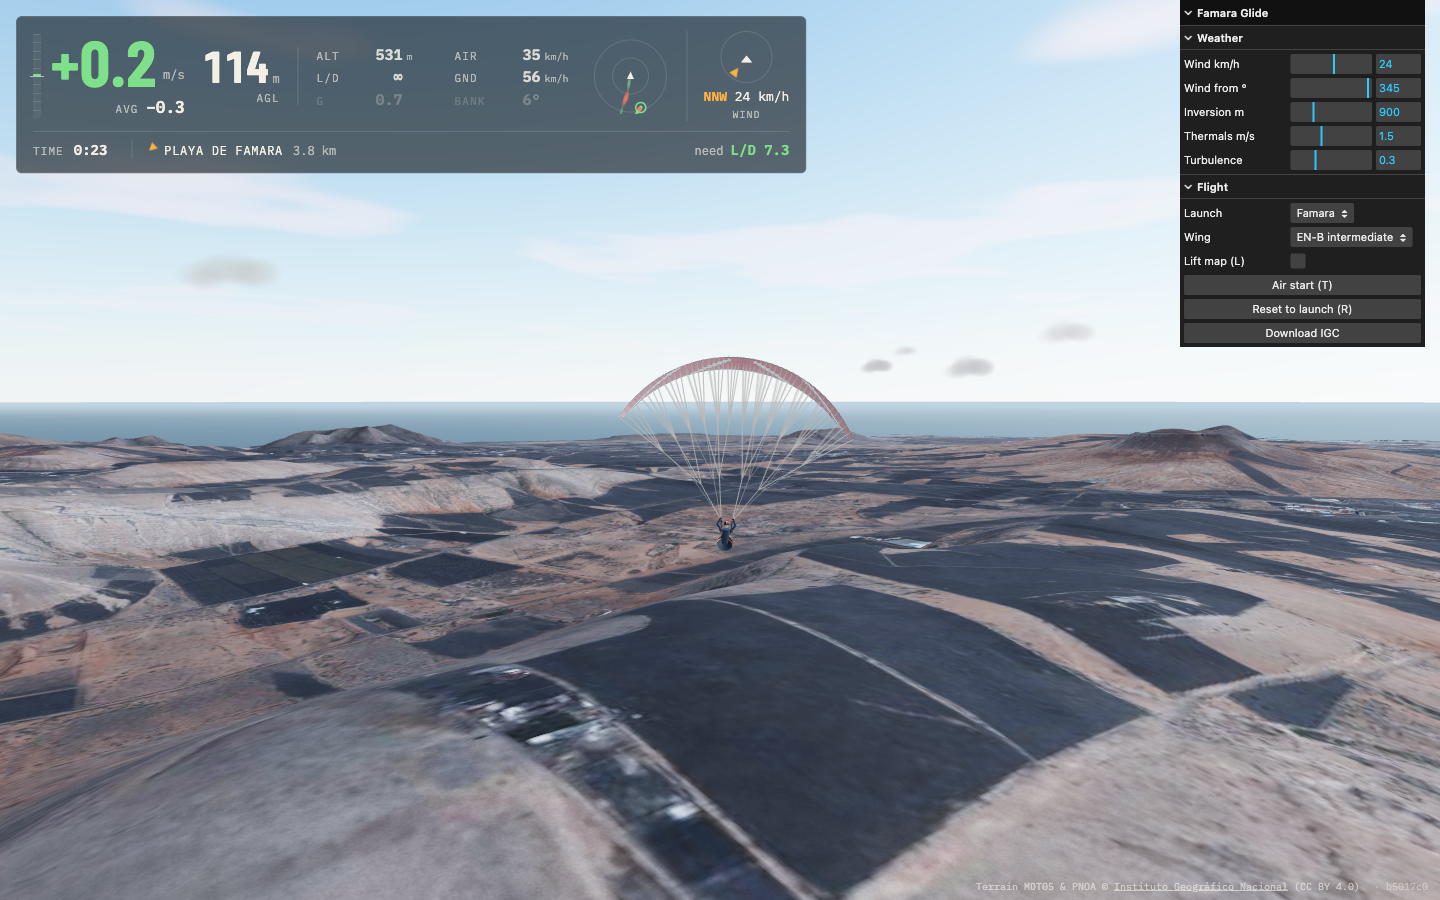
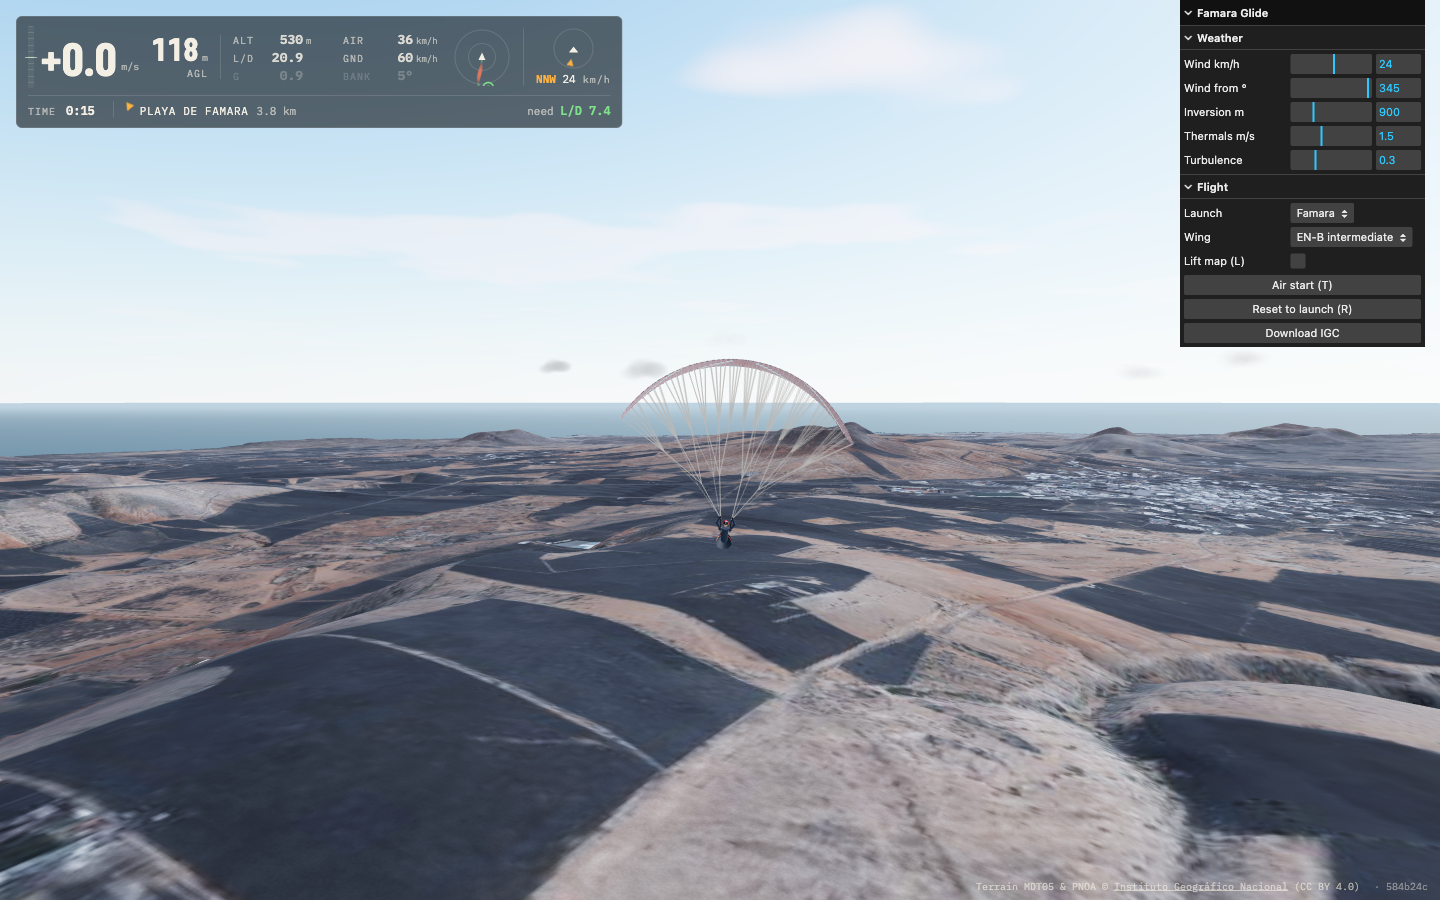
feat: compact instrument panel, no average climb - panel cut from ~790x160 to ~600x110 px so it covers less of the view; the 20 s average climb removed as not useful; L/D now a ratio of 4 s averages (ground speed over sink) so it no longer sits at infinity for seconds after leaving lift

diff --git a/src/style.css b/src/style.css
@@ -41,8 +41,8 @@ html, body {
   display: grid; align-items: center;
   grid-template-columns: auto auto auto auto auto;
   grid-template-areas: "vario agl readouts thermal wind" "footer footer footer footer footer";
-  column-gap: 18px;
-  padding: 14px 16px;
+  column-gap: 12px;
+  padding: 9px 11px;
   background: var(--panel);
   border: 1px solid var(--edge);
   border-radius: 6px;
@@ -52,64 +52,61 @@ html, body {
 #instrument.minimal :is(.readouts, #thermal, .footer) { display: none; }
 #instrument.hidden { display: none; }
 
-.label { color: var(--ink-dim); font-size: 11px; letter-spacing: 0.1em; }
+.label { color: var(--ink-dim); font-size: 10px; letter-spacing: 0.1em; }
 
 /* Vario: vertical ±5 m/s scale, ticks every 1 m/s, filled from the zero line. */
-.vario { grid-area: vario; display: flex; gap: 10px; align-items: stretch; }
+.vario { grid-area: vario; display: flex; gap: 7px; align-items: stretch; }
 .vario-scale {
-  position: relative; width: 8px; min-height: 84px;
+  position: relative; width: 6px; min-height: 62px;
   background: repeating-linear-gradient(to bottom, var(--edge) 0 1px, transparent 1px 10%), rgba(244, 239, 228, 0.06);
   border-radius: 2px;
 }
 .vario-scale::after { content: ''; position: absolute; left: -3px; right: -3px; top: 50%; height: 1px; background: var(--ink-dim); }
 #vario-fill { position: absolute; left: 0; right: 0; top: 50%; height: 0; background: var(--lift); border-radius: 2px; }
-.vario-read { display: grid; grid-template-columns: auto auto; column-gap: 6px; align-content: center; align-items: end; }
-.vario-value { font-family: var(--display); font-weight: 700; font-size: 64px; line-height: 0.85; min-width: 3.2ch; text-align: right; font-variant-numeric: tabular-nums; border-radius: 4px; }
+.vario-read { display: grid; grid-template-columns: auto auto; column-gap: 4px; align-content: center; align-items: end; }
+.vario-value { font-family: var(--display); font-weight: 700; font-size: 46px; line-height: 0.85; min-width: 3.2ch; text-align: right; font-variant-numeric: tabular-nums; border-radius: 4px; }
 .vario-value.up { color: var(--lift); }
 .vario-value.down { color: var(--sink); }
 .vario-value.flash { animation: flash 0.9s ease-out; }
 @keyframes flash { from { background: rgba(127, 224, 138, 0.35); } to { background: transparent; } }
-.vario-unit { color: var(--ink-dim); font-size: 12px; padding-bottom: 6px; }
-.vario-avg { grid-column: 1 / 3; margin-top: 8px; color: var(--ink-dim); font-size: 11px; letter-spacing: 0.1em; text-align: right; }
-.vario-avg b { color: var(--ink); font-size: 16px; letter-spacing: 0; font-variant-numeric: tabular-nums; }
-.vario-avg b.up { color: var(--lift); }
+.vario-unit { color: var(--ink-dim); font-size: 10px; padding-bottom: 4px; }
 
 /* Height above ground: the second number a pilot looks at, coloured as the ground gets close. */
-.agl { grid-area: agl; display: grid; justify-items: end; gap: 6px; padding-right: 18px; border-right: 1px solid var(--edge); }
-.agl-value { font-family: var(--display); font-weight: 700; font-size: 44px; line-height: 0.85; font-variant-numeric: tabular-nums; }
-.agl-value small { font-family: var(--mono); font-weight: 400; font-size: 12px; color: var(--ink-dim); margin-left: 4px; }
+.agl { grid-area: agl; display: grid; justify-items: end; gap: 4px; padding-right: 12px; border-right: 1px solid var(--edge); }
+.agl-value { font-family: var(--display); font-weight: 700; font-size: 32px; line-height: 0.85; font-variant-numeric: tabular-nums; }
+.agl-value small { font-family: var(--mono); font-weight: 400; font-size: 10px; color: var(--ink-dim); margin-left: 3px; }
 .agl.low .agl-value { color: var(--accent); }
 .agl.danger .agl-value { color: var(--sink); }
 
-.readouts { grid-area: readouts; display: grid; grid-template-columns: repeat(2, auto); gap: 3px 18px; margin: 0; align-content: center; }
-.readouts div { display: grid; grid-template-columns: 38px 48px 34px; align-items: baseline; transition: opacity 0.4s; }
-.readouts dt { color: var(--ink-dim); font-size: 11px; letter-spacing: 0.1em; }
-.readouts dd { margin: 0; font-size: 15px; font-weight: 600; text-align: right; font-variant-numeric: tabular-nums; color: rgba(244, 239, 228, 0.85); }
-.readouts span { color: var(--ink-dim); font-size: 10px; padding-left: 4px; }
+.readouts { grid-area: readouts; display: grid; grid-template-columns: repeat(2, auto); gap: 1px 12px; margin: 0; align-content: center; }
+.readouts div { display: grid; grid-template-columns: 32px 38px 28px; align-items: baseline; transition: opacity 0.4s; }
+.readouts dt { color: var(--ink-dim); font-size: 10px; letter-spacing: 0.1em; }
+.readouts dd { margin: 0; font-size: 13px; font-weight: 600; text-align: right; font-variant-numeric: tabular-nums; color: rgba(244, 239, 228, 0.85); }
+.readouts span { color: var(--ink-dim); font-size: 9px; padding-left: 3px; }
 .readouts .quiet { opacity: 0.3; }
 .readouts .alert dd { color: var(--sink); }
 
-#thermal { grid-area: thermal; width: 76px; height: 76px; }
+#thermal { grid-area: thermal; width: 58px; height: 58px; }
 
-.wind { grid-area: wind; display: grid; justify-items: center; align-content: center; gap: 4px; border-left: 1px solid var(--edge); padding-left: 16px; }
-.wind-rose { position: relative; width: 52px; height: 52px; border: 1px solid var(--edge); border-radius: 50%; }
+.wind { grid-area: wind; display: grid; justify-items: center; align-content: center; gap: 3px; border-left: 1px solid var(--edge); padding-left: 12px; }
+.wind-rose { position: relative; width: 40px; height: 40px; border: 1px solid var(--edge); border-radius: 50%; }
 .wind-rose > div { position: absolute; inset: 0; display: grid; place-items: center; }
 /* The arrow sits on the upwind rim and points along the flow, past the glider fixed at the centre. */
 #wind-arrow { transition: transform 0.2s; }
-#wind-arrow i { font-style: normal; color: var(--accent); font-size: 14px; line-height: 1; transform: translateY(17px); }
-.wind-glider { color: var(--ink); font-size: 11px; transform: scaleX(1.6); }
-.wind-text { text-align: center; font-size: 13px; white-space: nowrap; }
+#wind-arrow i { font-style: normal; color: var(--accent); font-size: 11px; line-height: 1; transform: translateY(13px); }
+.wind-glider { color: var(--ink); font-size: 9px; transform: scaleX(1.6); }
+.wind-text { text-align: center; font-size: 11px; white-space: nowrap; }
 .wind-text b { color: var(--accent); }
 .wind-text small { color: var(--ink-dim); font-size: 10px; letter-spacing: 0.1em; }
 
-.footer { grid-area: footer; display: flex; gap: 10px; align-items: baseline; margin-top: 10px; padding-top: 8px; border-top: 1px solid var(--edge); font-size: 12px; color: var(--ink-dim); }
-.footer > b { color: var(--ink); font-size: 14px; font-variant-numeric: tabular-nums; }
-.landing { flex: 1; display: flex; gap: 10px; align-items: baseline; margin-left: 14px; padding-left: 14px; border-left: 1px solid var(--edge); }
+.footer { grid-area: footer; display: flex; gap: 10px; align-items: baseline; margin-top: 7px; padding-top: 5px; border-top: 1px solid var(--edge); font-size: 11px; color: var(--ink-dim); }
+.footer > b { color: var(--ink); font-size: 12px; font-variant-numeric: tabular-nums; }
+.landing { flex: 1; display: flex; gap: 8px; align-items: baseline; margin-left: 8px; padding-left: 10px; border-left: 1px solid var(--edge); }
 .landing.none { display: none; }
 #landing-arrow { display: inline-block; color: var(--accent); font-size: 13px; transition: transform 0.2s; }
 #landing-name { color: var(--ink); letter-spacing: 0.06em; text-transform: uppercase; }
 .landing-need { margin-left: auto; }
-.landing-need b { color: var(--ink); font-size: 14px; font-variant-numeric: tabular-nums; }
+.landing-need b { color: var(--ink); font-size: 12px; font-variant-numeric: tabular-nums; }
 .landing.ok .landing-need b { color: var(--lift); }
 .landing.marginal .landing-need b { color: var(--accent); }
 .landing.out .landing-need b { color: var(--sink); }
@@ -149,11 +146,7 @@ html, body {
 .lil-gui.root { --background-color: rgba(16, 22, 28, 0.85); --font-family: var(--mono); top: 16px; right: 16px; }
 
 @media (max-width: 720px) {
-  #instrument { grid-template-columns: auto auto auto; grid-template-areas: "vario agl wind"; column-gap: 10px; padding: 10px 12px; }
+  #instrument { grid-template-columns: auto auto auto; grid-template-areas: "vario agl wind"; }
   #instrument :is(.readouts, #thermal, .footer) { display: none; }
-  .vario-value { font-size: 44px; }
-  .agl { padding-right: 10px; }
-  .agl-value { font-size: 32px; }
-  .wind { padding-left: 10px; }
   #help { display: none; }
 }

diff --git a/src/main.ts b/src/main.ts
@@ -10,7 +10,7 @@ import { loadSite, type Launch } from './game/site';
 import { createGlider as createGliderModel } from './game/wing';
 import { TerrainView } from './game/terrain-view';
 import { createLiftMap, createSea, createSkyAndLight, toScene } from './game/world';
-import { ClimbAverage, compass, glideTo, TurnTrack } from './sim/instruments';
+import { compass, glideTo, TurnTrack } from './sim/instruments';
 import { createGlider, stepGlider, type Environment, type GliderState } from './sim/glider';
 import { buildIgc, type Fix } from './sim/igc';
 import { Polar, WINGS, type WingId } from './sim/polar';
@@ -81,7 +81,8 @@ async function boot(): Promise<void> {
   let climb = 0;
   let flightTime = 0;
   let glideAvg: number | null = null;
-  const climbAvg = new ClimbAverage();
+  let groundSpeedAvg = 0;
+  let sinkAvg = 0;
   const track = new TurnTrack();
   let fixes: Fix[] = [];
   let fixTimer = 0;
@@ -101,7 +102,8 @@ async function boot(): Promise<void> {
     climb = 0;
     flightTime = 0;
     glideAvg = null;
-    climbAvg.reset();
+    groundSpeedAvg = state.groundSpeed;
+    sinkAvg = 0;
     track.reset();
     fixes = [];
     rig.snap(toScene(extent, state.x, state.y, state.z, pilotPos), state);
@@ -227,15 +229,13 @@ async function boot(): Promise<void> {
       climb += ((flying ? state.vz : 0) - climb) * (1 - Math.exp(-dt / 0.6));
       if (flying) {
         flightTime += dt;
-        climbAvg.add(state.vz, dt);
         track.add(state.x, state.y, state.vz, dt);
-        // From the smoothed climb the vario shows, so a moment of lift doesn't snap L/D to ∞.
-        if (-climb > 0.2) {
-          const glide = state.groundSpeed / -climb;
-          glideAvg = glideAvg === null || !Number.isFinite(glideAvg) ? glide : glideAvg + (glide - glideAvg) * (1 - Math.exp(-dt / 4));
-        } else {
-          glideAvg = Infinity; // climbing or level: no glide ratio to show
-        }
+        // Ratio of averages, not an average of ratios: coming out of lift the instant ratio
+        // is huge (14 m/s over 0.2 m/s sink) and would hold L/D at ∞ for seconds.
+        const k = 1 - Math.exp(-dt / 4);
+        groundSpeedAvg += (state.groundSpeed - groundSpeedAvg) * k;
+        sinkAvg += (-state.vz - sinkAvg) * k;
+        glideAvg = sinkAvg > 0.2 ? groundSpeedAvg / sinkAvg : Infinity; // climbing or level: no glide ratio to show
         fixTimer += dt;
         if (fixTimer >= IGC_INTERVAL) {
           fixTimer = 0;
@@ -260,7 +260,7 @@ async function boot(): Promise<void> {
     const [dx, dy] = wind.direction;
     const glide = state.phase === 'flying' ? glideAvg : null;
     hud.update(dt, state, {
-      climb, climbAvg: climbAvg.value, agl: state.z - ground, glide, flightSeconds: flightTime,
+      climb, agl: state.z - ground, glide, flightSeconds: flightTime,
       windKmh: wind.windSpeedAt(state.x, state.y, state.z) * 3.6, windToRad: Math.atan2(dx, dy),
       landing: nearestLanding(glide), track,
     });

diff --git a/src/sim/instruments.ts b/src/sim/instruments.ts
@@ -1,42 +1,11 @@
-// Flight-computer maths behind the HUD: averaged climb, glide to a landing and the
-// recent track for the thermal assistant. Pure, so it can be tested without a DOM.
+// Flight-computer maths behind the HUD: glide to a landing and the recent track for
+// the thermal assistant. Pure, so it can be tested without a DOM.
 
 const COMPASS = ['N', 'NNE', 'NE', 'ENE', 'E', 'ESE', 'SE', 'SSE', 'S', 'SSW', 'SW', 'WSW', 'W', 'WNW', 'NW', 'NNW'];
 
 /** 16-point compass name for a heading in radians (0 = north, clockwise). */
 export function compass(rad: number): string {
   return COMPASS[Math.round(((rad * 180) / Math.PI / 22.5) % 16 + 16) % 16];
-}
-
-/** Mean climb over the last `windowS` seconds — what a vario's "average" shows while circling. */
-export class ClimbAverage {
-  private samples: { t: number; vz: number; dt: number }[] = [];
-  private sum = 0;
-  private span = 0;
-  private now = 0;
-
-  constructor(private readonly windowS = 20) {}
-
-  add(vz: number, dt: number): void {
-    this.now += dt;
-    this.samples.push({ t: this.now, vz, dt });
-    this.sum += vz * dt;
-    this.span += dt;
-    while (this.samples.length > 0 && this.samples[0].t <= this.now - this.windowS) {
-      const old = this.samples.shift()!;
-      this.sum -= old.vz * old.dt;
-      this.span -= old.dt;
-    }
-  }
-
-  get value(): number {
-    return this.span > 0 ? this.sum / this.span : 0;
-  }
-
-  reset(): void {
-    this.samples = [];
-    this.sum = this.span = this.now = 0;
-  }
 }
 
 export type GlideStatus = 'ok' | 'marginal' | 'out' | 'none';

diff --git a/src/sim/instruments.test.ts b/src/sim/instruments.test.ts
@@ -1,5 +1,5 @@
 import { describe, expect, it } from 'vitest';
-import { ClimbAverage, compass, glideTo, TurnTrack } from './instruments';
+import { compass, glideTo, TurnTrack } from './instruments';
 
 describe('compass', () => {
   it('names the 16 points and wraps negative and >360° headings', () => {
@@ -8,32 +8,6 @@ describe('compass', () => {
     expect(compass((345 * Math.PI) / 180)).toBe('NNW');
     expect(compass(-Math.PI / 2)).toBe('W');
     expect(compass(2 * Math.PI + Math.PI)).toBe('S');
-  });
-});
-
-describe('ClimbAverage', () => {
-  it('averages over the window and forgets older samples', () => {
-    const avg = new ClimbAverage(10);
-    for (let i = 0; i < 100; i++) avg.add(-1, 0.1); // 10 s of sink
-    expect(avg.value).toBeCloseTo(-1);
-    for (let i = 0; i < 50; i++) avg.add(3, 0.1); // 5 s of climb: half the window
-    expect(avg.value).toBeCloseTo(1, 1);
-    for (let i = 0; i < 100; i++) avg.add(3, 0.1); // the sink has aged out
-    expect(avg.value).toBeCloseTo(3);
-  });
-
-  it('weights by time, not by sample count', () => {
-    const avg = new ClimbAverage(20);
-    avg.add(4, 1);
-    for (let i = 0; i < 10; i++) avg.add(0, 0.1);
-    expect(avg.value).toBeCloseTo(2);
-  });
-
-  it('reads zero after a reset', () => {
-    const avg = new ClimbAverage();
-    avg.add(2, 1);
-    avg.reset();
-    expect(avg.value).toBe(0);
   });
 });
 

diff --git a/index.html b/index.html
@@ -22,7 +22,6 @@
         <div class="vario-read">
           <div class="vario-value" id="vario">+0.0</div>
           <div class="vario-unit">m/s</div>
-          <div class="vario-avg">AVG <b id="vario-avg">+0.0</b></div>
         </div>
       </div>
       <div class="agl" id="agl-box">
@@ -37,13 +36,13 @@
         <div class="maneuver"><dt>G</dt><dd id="gload">–</dd><span></span></div>
         <div class="maneuver"><dt>BANK</dt><dd id="bank">–</dd><span></span></div>
       </dl>
-      <canvas id="thermal" width="152" height="152" aria-label="Thermal assistant"></canvas>
+      <canvas id="thermal" width="116" height="116" aria-label="Thermal assistant"></canvas>
       <div class="wind">
         <div class="wind-rose">
           <div id="wind-arrow"><i>▲</i></div>
           <div class="wind-glider">▲</div>
         </div>
-        <div class="wind-text"><b id="wind-from">N</b> <span id="wind-speed">0</span> km/h<br /><small>WIND</small></div>
+        <div class="wind-text"><b id="wind-from">N</b> <span id="wind-speed">0</span><small> km/h</small></div>
       </div>
       <div class="footer">
         <span class="label">TIME</span> <b id="flighttime">0:00</b>

diff --git a/src/game/hud.ts b/src/game/hud.ts
@@ -22,7 +22,6 @@ const TRACK_RADIUS_M = 80;
 
 export interface HudFrame {
   climb: number;
-  climbAvg: number;
   agl: number;
   glide: number | null;
   flightSeconds: number;
@@ -37,7 +36,6 @@ export class Hud {
   private readonly panel = el('instrument');
   private readonly vario = el('vario');
   private readonly varioFill = el('vario-fill');
-  private readonly varioAvg = el('vario-avg');
   private readonly alt = el('alt');
   private readonly agl = el('agl');
   private readonly aglBox = el('agl-box');
@@ -107,8 +105,6 @@ export class Hud {
     this.varioFill.style.top = frac >= 0 ? `${50 - frac * 50}%` : '50%';
     this.varioFill.style.height = `${Math.abs(frac) * 50}%`;
     this.varioFill.style.background = frac >= 0 ? 'var(--lift)' : 'var(--sink)';
-    this.varioAvg.textContent = flying ? signed(f.climbAvg) : '–';
-    this.varioAvg.classList.toggle('up', flying && f.climbAvg >= 0.2);
 
     const agl = Math.max(f.agl, 0);
     this.agl.textContent = Math.round(agl).toString();

diff --git a/CHANGELOG.md b/CHANGELOG.md
@@ -1,13 +1,13 @@
 # Changelog
 
-## 2026-10-18 01:08 UTC — Instrument panel rework
+## 2026-10-18 01:33 UTC — Instrument panel rework
 
-- Laid out by priority: big vario with a vertical ±5 m/s scale and the 20 s average climb, then AGL large, then smaller reference readouts; flight time moved to a footer row.
+- Laid out by priority in a compact strip (~600×110 px, down from ~790×160): big vario with a vertical ±5 m/s scale, then AGL large, then smaller reference readouts; flight time moved to a footer row.
 - AGL turns amber below 50 m and red below 20 m. G and bank are dimmed in straight flight and light up past 25° bank or outside 0.6–1.8 G.
 - Thermal assistant: the last 30 s of track heading-up, coloured by climb, with the best climb ringed.
 - Wind rose with the glider fixed at the centre and the arrow along the flow; wind shown as the compass direction it comes from (e.g. NNW 24 km/h).
 - Glide to landing: nearest field from the new `landings` list in `site.json` (Playa de Famara), with distance, bearing and the L/D needed, graded green/amber/red against the current L/D.
-- L/D is averaged from the smoothed climb the vario shows, so a moment of lift no longer snaps it to ∞ (and the landing readout green) while sinking.
+- L/D is now a ratio of 4 s averages (ground speed over sink) instead of an average of instant ratios, which snapped to ∞ in a moment of lift and then took seconds to come down from ~70 — showing ∞ (and the landing readout green) while sinking.
 - Vario flashes when climb first passes +2 m/s. **I** cycles the panel full → minimal → hidden; phones get the minimal layout.
 
 ## 2026-10-18 01:32 UTC — Rigid-body flight model

diff --git a/docs/architecture.md b/docs/architecture.md
@@ -82,9 +82,10 @@ These rules come from the notes vault's *coastal-soaring-lift-factors* note; the
 
 ## Instrument panel (`src/game/hud.ts`, `src/sim/instruments.ts`)
 
-Laid out by what a pilot glances at: the vario (big number, a vertical ±5 m/s scale and the 20 s
-average climb), height above ground (amber below 50 m, red below 20 m), then smaller reference
-readouts. G and bank stay dimmed until a manoeuvre makes them matter (bank over 25°, load outside
+A compact strip (~600×110 px) laid out by what a pilot glances at: the vario (big number and a
+vertical ±5 m/s scale), height above ground (amber below 50 m, red below 20 m), then smaller
+reference readouts. L/D is a ratio of 4 s averages (ground speed over sink), not an average of
+instant ratios, so it recovers straight away on leaving lift. G and bank stay dimmed until a manoeuvre makes them matter (bank over 25°, load outside
 0.6–1.8 G). The vario number flashes when climb first passes +2 m/s.
 
 - **Thermal assistant**: the last 30 s of track, heading up, 80 m to the edge, dots sized and
@@ -96,7 +97,7 @@ readouts. G and bank stay dimmed until a manoeuvre makes them matter (bank over 
   25 %, amber when it just makes it, red when it doesn't. Hidden for a site with no landings.
 - **I** cycles full → minimal (vario, AGL, wind) → hidden. Phones get the minimal layout.
 
-The maths (averaging, glide-to, track buffer, compass) is pure and tested in `instruments.test.ts`;
+The maths (glide-to, track buffer, compass) is pure and tested in `instruments.test.ts`;
 `hud.ts` only draws.
 
 ## Terrain data

diff --git a/README.md b/README.md
@@ -16,7 +16,7 @@ the lift model cheaply first. The plan lives in the notes vault (`Projects/parag
 
 ![Soaring the Risco de Famara in a 24 km/h north-westerly](docs/screenshots/famara-cliff.png)
 
-![Instrument panel: vario with 20 s average, AGL, thermal assistant, wind rose and glide to the Famara beach landing](docs/screenshots/instrument-panel.png)
+![Instrument panel: vario, AGL, thermal assistant, wind rose and glide to the Famara beach landing](docs/screenshots/instrument-panel.png)
 
 ![Spiral dive over Lanzarote: 82° bank, 3.4 G, −13.7 m/s](docs/screenshots/spiral-dive.png)
 
